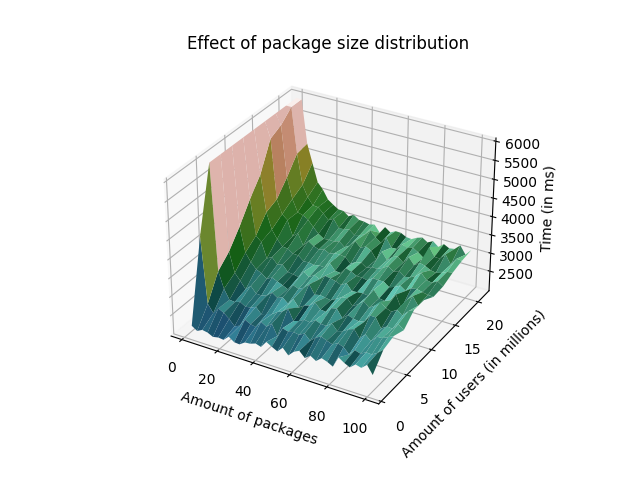
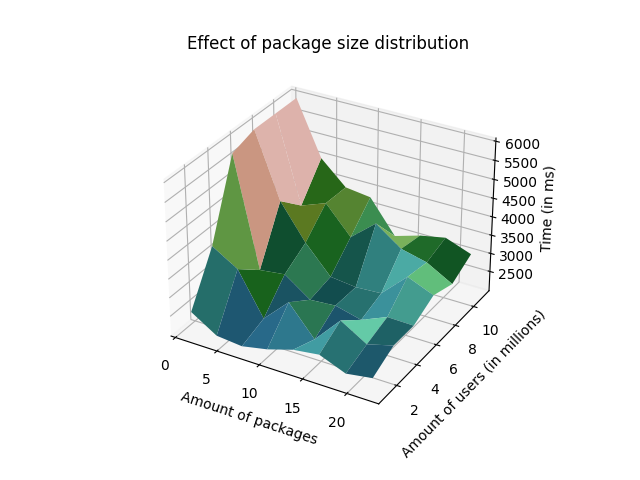
updated database_size_vs_amount_of_packages to use variables from Ookla open database

diff --git a/database_size_vs_amount_of_packages_tester.py b/database_size_vs_amount_of_packages_tester.py
@@ -5,20 +5,20 @@ from random import sample
 import matplotlib.pyplot as plt
 from matplotlib import cm
 from matplotlib.colors import LightSource
-
+from dbfread import DBF
 
 # amount of users in millions
 a_min = 1
-a_max = 20
+a_max = 10
 a_inc_size = 2
 
 # amount of packages
 p_min = 1
-p_max = 100
+p_max = 20
 p_inc_size = 3
 
 # amount of iteration for each combination
-i_tot = 10
+i_tot = 2
 
 # range presentated in graph (to avoid extremely high/low times ruining graph)
 graph_cap = 6000
@@ -85,6 +85,20 @@ class best_line:
 
 
 
+# Read in data from Ookla-open-data database to create statistics regarding latencies, upload speeds and download speeds
+# Data is from Q1 2020, and is based on the average of 604m*604m areas with 'devices' amount of devices.
+# We sort out latencies and upload speeds that are extremely high (for latencies) and low (for upload speeds) as these should in practise be counted as dead nodes.
+upload_speeds = []
+download_speeds = []
+latencies = []
+for record in DBF('gps_mobile_tiles.dbf'):
+    for i in range(record['devices']):
+        if record['avg_u_kbps'] > 100: #if above 0.1 mbps
+            upload_speeds.append(record['avg_u_kbps']/ 1000)
+        if record['avg_lat_ms'] < 500: #if below 500ms
+            latencies.append(record['avg_lat_ms'])
+
+
 
 for database_size in range(a_min*1000000, a_max*1000000+a_inc_size*1000000, a_inc_size*1000000):
     best_distribution = 0
@@ -92,78 +106,67 @@ for database_size in range(a_min*1000000, a_max*1000000+a_inc_size*1000000, a_in
     best_package_size = 0
 
     for amount_of_packages in range(p_min, p_max+p_inc_size, p_inc_size):
-        # Set Values
-        # All times are in milliseconds
         amount_of_nodes = database_size
         package_size = math.floor(database_size/amount_of_packages)
-        #http://web.mit.edu/bentley/www/papers/phonebook-CHI15.pdf
+        #contact book size is based on the average amount of contacts a person has on their phone
+        # according to http://web.mit.edu/bentley/www/papers/phonebook-CHI15.pdf
         contact_book_size = 308
         hash_table_creation_time = 10
         time_to_send_requests = amount_of_packages
         # print("Amount of nodes to collect from:", amount_of_packages)
         # print("Average package size:", package_size)
+ 
+ 
+        # Time required to search through the uploaded contactbook and compare it to the nodes information
+        # Based on our experiment (see xxxx)
+        search_time_mean = package_size * 0.0009 + 125.666
+        search_time_spread = package_size * 0.000009 + 6.1168
+        search_times = np.random.normal(
+            search_time_mean, search_time_spread, amount_of_packages)
+
+
+        # Normal distribution of path lengths based on
+        # https://cs.nyu.edu/courses/fall18/CSCI-GA.3033-002/papers/chord-ton.pdf
+        path_lengths = np.random.normal(np.log2(
+            database_size) / 2, np.log2(database_size) / 6, math.floor(amount_of_packages))
+        
+        print(path_lengths)
+        for i in range(len(path_lengths)):
+            if path_lengths[i] < 2:
+                path_lengths[i] = 2
+
 
         results = []
         for i in range(i_tot):
 
-            # Time required to search through the uploaded contactbook and compare it to the nodes information
-            # Based on our experiment (see xxxx)
-
-            search_time_mean = package_size * 0.0009 + 125.666
-            search_time_spread = package_size * 0.000009 + 6.1168
-            search_times = np.random.normal(
-                search_time_mean, search_time_spread, amount_of_packages)
-
-            # Normal distribution of latencies
-            latencies = np.random.normal(
-                latency_mean, latency_spread, amount_of_packages)
-
-            for i in range(amount_of_packages):
-                if latencies[i] < latency_minimum:
-                    latencies[i] = latency_minimum
-
-            # Normal distribution of latencies on the path when searching for nodes
-            path_latencies = np.random.normal(
-                latency_mean, latency_spread, 100000)
-
-            # Normal distribution of upload speed
-            upload_speed = np.random.normal(
-                upload_speed_mean, upload_speed_spread, amount_of_packages)
-
-            for i in range(amount_of_packages):
-                if upload_speed[i] < upload_speed_minimum:
-                    upload_speed[i] = upload_speed_minimum
-
-            # Normal distribution of path lengths based on
-            # https://cs.nyu.edu/courses/fall18/CSCI-GA.3033-002/papers/chord-ton.pdf
-            path_lengths = np.random.normal(np.log2(
-                database_size) / 2, np.log2(database_size) / 6, math.floor(amount_of_packages))
-
-            for i in range(len(path_lengths)):
-                if path_lengths[i] < 2:
-                    path_lengths[i] = 2
+           
+           
 
             tracks = []
             for track_id in range(amount_of_packages):
                 # Takes path length and multiplies with the time it takes to connect to the next node with a TCP protocol.
                 # Sending request after a connection been made is neglectable
+                node_latency = sample(latencies, 1)[0]
+                node_upload_speed = sample(upload_speeds, 1)[0]
+
 
                 find_node_time = sum(sample(
-                    path_latencies.tolist(), math.floor(path_lengths[track_id]))) * connection_protocol_multiplier
+                    latencies, math.floor(path_lengths[track_id]))) * connection_protocol_multiplier
 
                 search_contacts_time = search_times[track_id]
 
                 # Time required to establish a TCP connection to the final node
-                establish_connection_time = latencies[track_id] * \
+                establish_connection_time = node_latency * \
                     connection_protocol_multiplier
 
                 # Calculate the maximum TCP throughput with standard window size 65536 Bytes = 524288 bits
-                max_TCP_throughput = 0.524288 / (latencies[track_id] / 1000)
+                max_TCP_throughput = 0.524288 / (node_latency / 1000)
 
-                # Upload speed is capped by max_TCP_thprughput if it's higher than upload_speed[track_id]
-                node_upload_speed = upload_speed[track_id] if upload_speed[
-                    track_id] < max_TCP_throughput else max_TCP_throughput
+                # Upload speed is capped by max_TCP_thprughput if it's higher than node_upload_speed
+                if node_upload_speed < max_TCP_throughput:
+                    node_upload_speed = max_TCP_throughput
 
+                #Calculating upload time
                 node_to_client_upload_time = (
                     1000 * (contact_book_size * 256) / amount_of_packages) / (node_upload_speed * 1000000)
                 client_to_node_upload_time = (

diff --git a/dbfReader.py b/dbfReader.py
@@ -1,0 +1,44 @@
+from dbfread import DBF
+import statistics as stat
+import matplotlib.pyplot as plt
+from matplotlib import cm
+from matplotlib.colors import LightSource
+import numpy as np
+
+upload_speeds = []
+latencies = []
+counter = 0
+sum_upload = 0
+sum_latency = 0
+total_devices = 0
+hacks= []
+
+for record in DBF('gps_mobile_tiles.dbf'):
+    sum_upload += (record['avg_u_kbps'] / 1000) * record['devices']
+    for i in range(record['devices']):
+        hacks.append(int(round(record['avg_u_kbps'])))
+    upload_speeds.append(record['avg_u_kbps'] / 1000)
+    latencies.append(record['avg_lat_ms'])
+
+    
+
+
+# print("sum upload", sum_upload)
+# print("total devices", total_devices)
+avg_upload = 11.792259851890899
+print("avg upload speed: ", avg_upload)
+
+
+stdev = 10.511185494679083
+print("standard deviation:", stdev)
+
+count, bins, ignored = plt.hist(hacks, 100, density=True, align='mid')
+# x = np.linspace(min(bins), max(bins), 10000)
+# pdf = (np.exp(-(np.log(x) - avg_upload)**2 / (2 * stdev**2))
+#        / (x * stdev * np.sqrt(2 * np.pi)))
+
+# plt.plot(x, pdf, linewidth=2, color='r')
+plt.axis('tight')
+plt.show()
+
+plt.savefig('dist.png')

diff --git a/calculator.py b/calculator.py
@@ -5,6 +5,7 @@ import time
 from random import sample
 
 
+
 TRACK_NOT_CONNECTED = "NOT_CONNECTED                "
 TRACK_SEARCHING_FOR_NODE = "SEARCHING_FOR_NODE           "
 TRACK_ESTABLISHING_CONNECTION = "ESTABLISHING_CONNECTION      "
